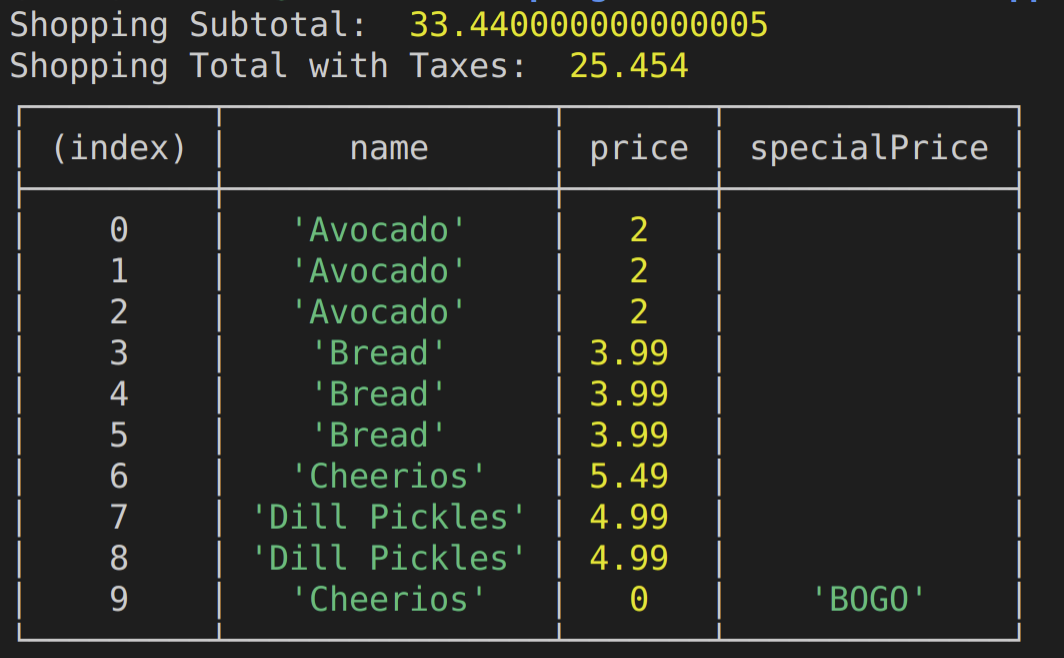
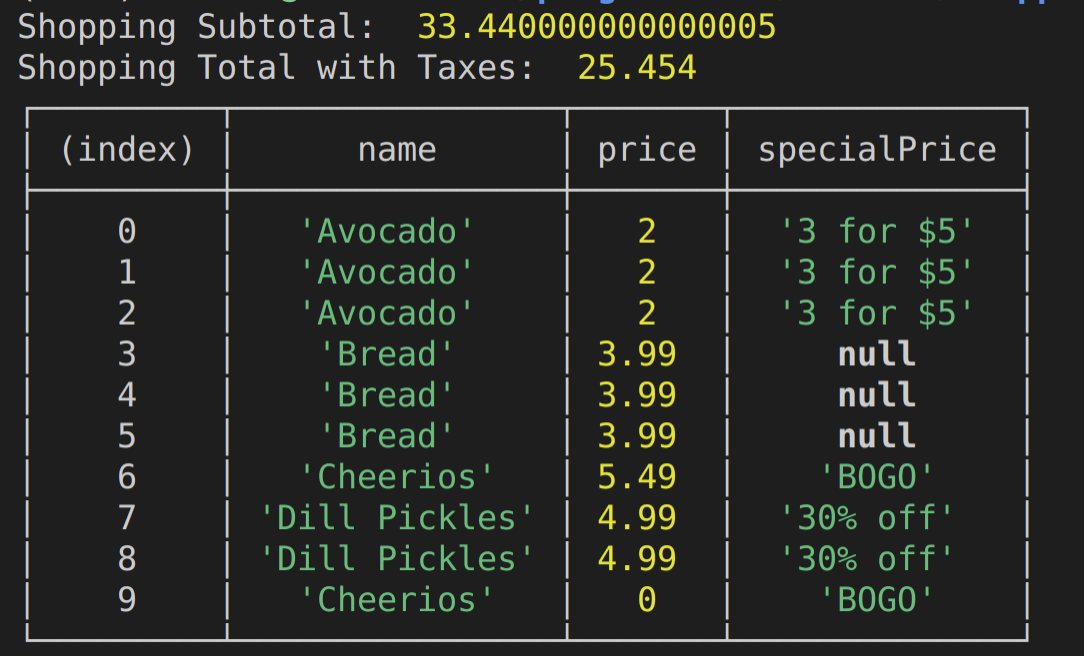
Update special price column with special price names

diff --git a/shopping.ts b/shopping.ts
@@ -1,6 +1,7 @@
 interface CartItem {
   name: string;
   price: number;
+  specialPrice?: string;
 }
 
 interface SpecialPrice {
@@ -50,7 +51,7 @@ const specialPriceMap: { [key: string]: SpecialPrice } = {
 const shoppingCart: Shopping = ({
   cart: [],
   add: (item: CartItem, quantity: number) => {
-    [...Array(quantity).keys()].forEach(() => shoppingCart.cart.push(item));
+    [...Array(quantity).keys()].forEach(() => shoppingCart.cart.push({ ...item, specialPrice: specialPriceMap[item.name]?.name || null }));
   },
   remove: (item: CartItem, quantity: number) => {
     const lastItemBeforeDelete = shoppingCart.cart.filter(shopItem => shopItem.name === item.name).length;

diff --git a/shopping.js b/shopping.js
@@ -28,7 +28,7 @@ const specialPriceMap = {
 const shoppingCart = ({
     cart: [],
     add: (item, quantity) => {
-        [...Array(quantity).keys()].forEach(() => shoppingCart.cart.push(item));
+        [...Array(quantity).keys()].forEach(() => { var _a; return shoppingCart.cart.push(Object.assign(Object.assign({}, item), { specialPrice: ((_a = specialPriceMap[item.name]) === null || _a === void 0 ? void 0 : _a.name) || null })); });
     },
     remove: (item, quantity) => {
         const lastItemBeforeDelete = shoppingCart.cart.filter(shopItem => shopItem.name === item.name).length;
